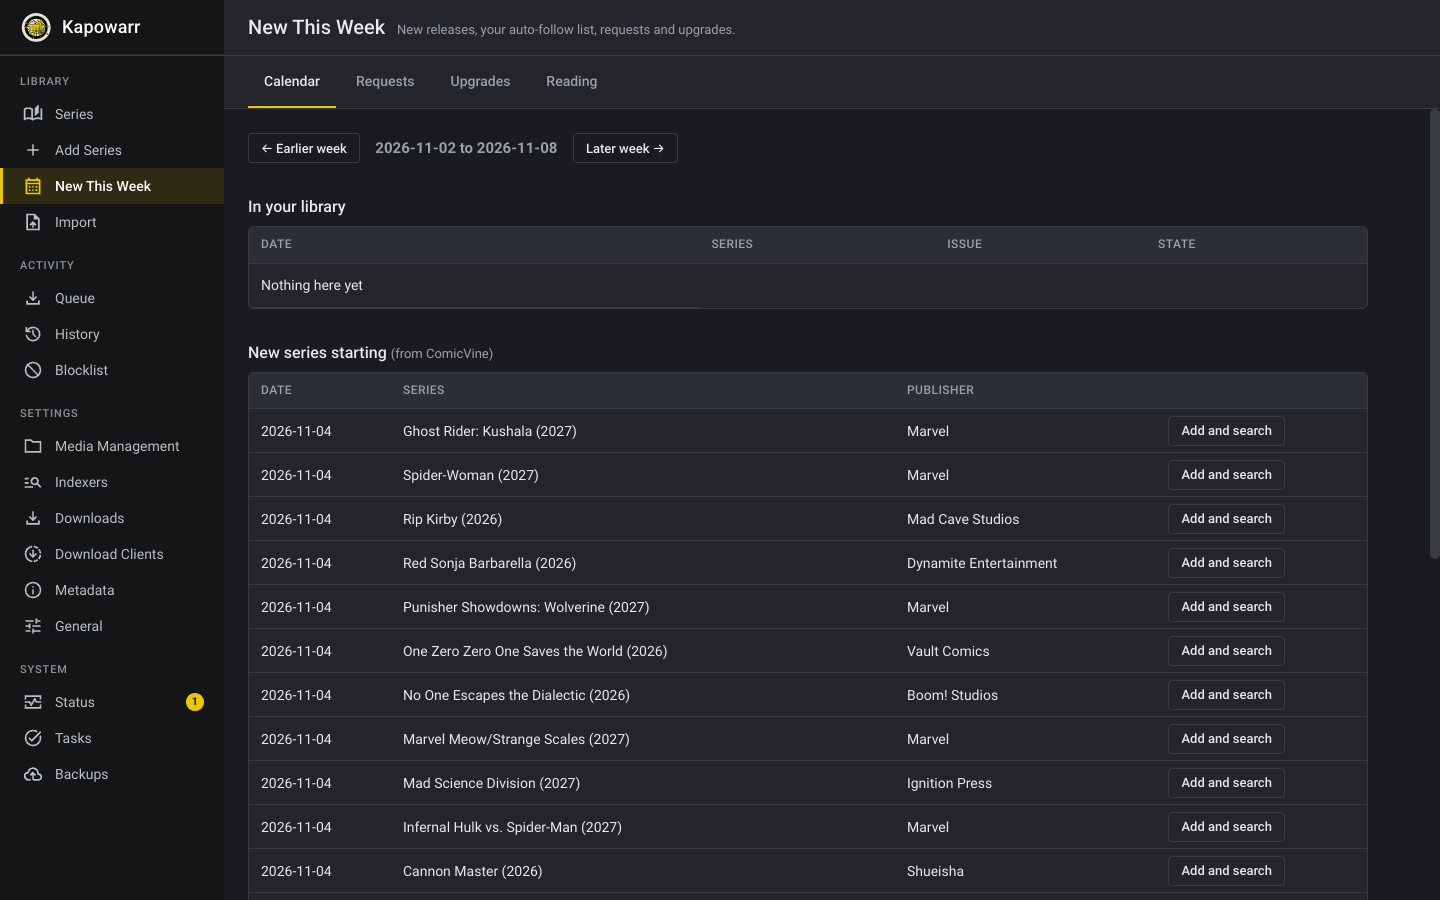
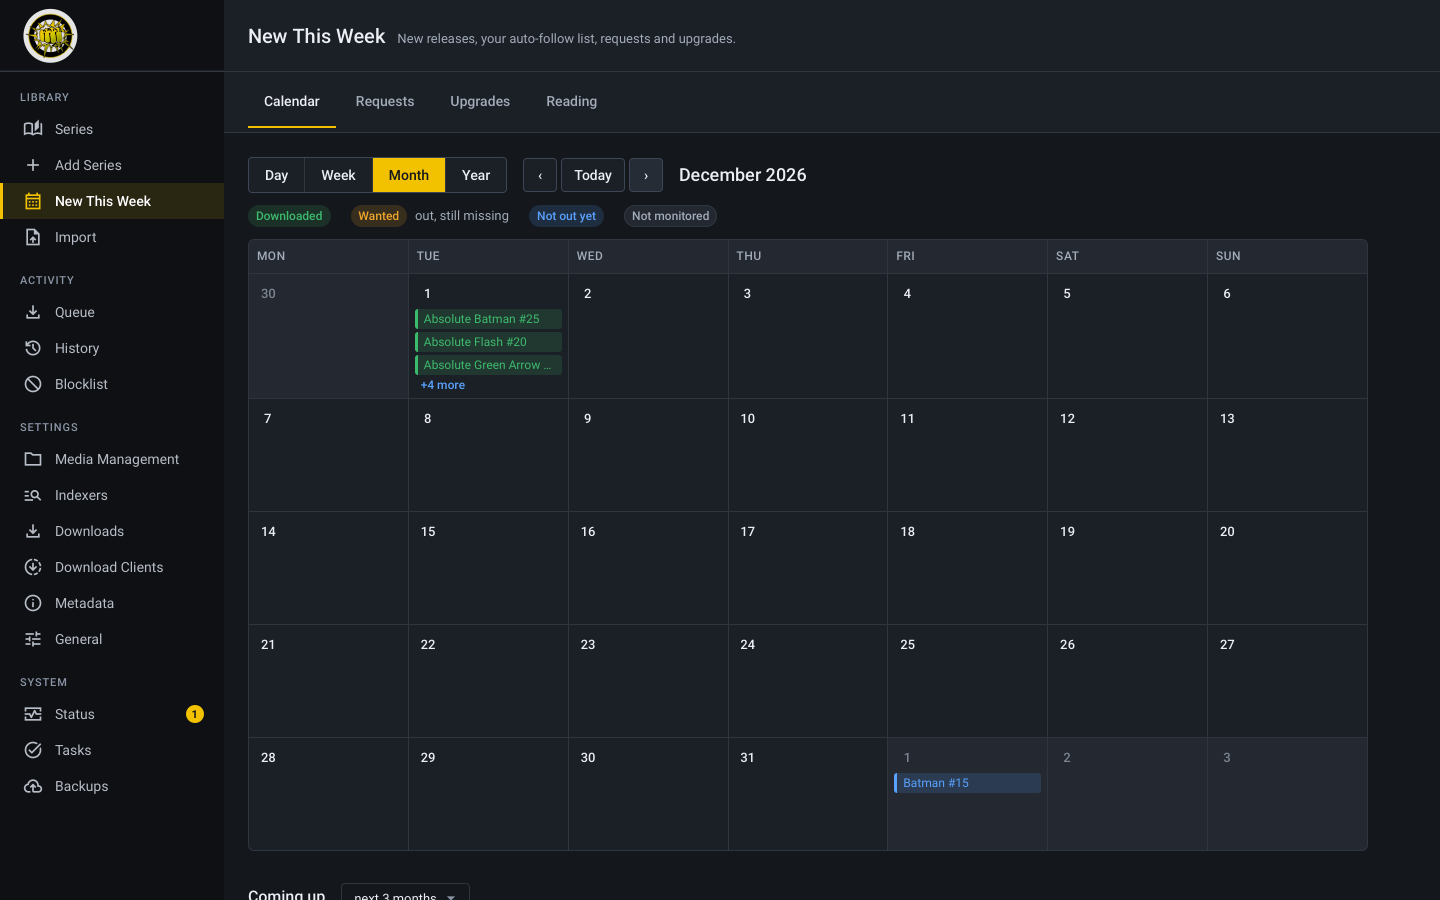
Docs: new Kapowarr calendar and screenshots, one manga folder, changelog

diff --git a/docs/Comics and manga.md b/docs/Comics and manga.md
@@ -43,7 +43,7 @@ Then open **Add Series**, search for a comic, and choose **Add to shelf**. Pick 
 
 Kapowarr has the familiar Sonarr and Radarr layout, made easier to read. Your shelf shows how complete every comic is.
 
-![Kapowarr's shelf: every comic with a progress bar and how many issues are missing](images/kapowarr-shelf.png)
+![Kapowarr's shelf: every comic with a progress bar and how many issues are missing](images/kapowarr-shelf.jpg)
 
 A series page opens with how many issues you have, how many are missing, and the issue list.
 
@@ -53,13 +53,15 @@ Adding a comic is a search box. Results come from ComicVine.
 
 ![Adding a comic in Kapowarr: search, filters and result cards](images/kapowarr-add.png)
 
-**New This Week** shows what is coming out and can add new series for you.
+**New This Week** is a calendar. Choose Day, Week, Month or Year to see when the next issue of each comic comes out, and what is coming in the next few months. It can also add new series for you.
 
-![New This Week in Kapowarr: the release calendar and new series](images/kapowarr-new-this-week.png)
+![New This Week in Kapowarr: the month calendar](images/kapowarr-new-this-week.png)
 
-On a phone, the menu is a bar at the bottom.
+![The year view: how many issues come out each month](images/kapowarr-calendar-year.png)
 
-<img src="images/kapowarr-phone.png" alt="Kapowarr on a phone" width="280">
+On a phone, the menu is a bar at the bottom. Both a light and a dark theme are built in (Settings, General).
+
+<img src="images/kapowarr-phone.jpg" alt="Kapowarr on a phone" width="280">
 
 The screenshots come from the fork's [interface guide](https://github.com/Hikki-dev/Kapowarr/blob/main/docs/Interface.md), which also shows the light theme.
 
@@ -75,7 +77,7 @@ Most manga are on several sites, and sites break. My copy handles that:
 * A site that is down is skipped instead of being asked tens of thousands of times.
 
 1. Open Kaizoku on port 9833 and add a manga source the first time.
-2. Search for a manga and add it. Chapters download into `books/manga`.
+2. Search for a manga and add it. Each series gets its own folder straight inside `books/manga`. There are no extra `Manga` or `Manhwa` folders in between, so you have one manga folder.
 3. Komga picks them up on its next scan.
 
 Already have part of a series on disk? Add it from the command line and let it choose the best site and the right place to continue: `extras/Kaizoku smart add`.

diff --git a/CHANGELOG.md b/CHANGELOG.md
@@ -1,5 +1,15 @@
 # Changes
 
+## Kapowarr: a better calendar, a steadier look
+
+1. **New This Week** is now a real calendar with **Day, Week, Month and Year** views, a **Coming up** list that shows the next issue of every series ("in 4 weeks"), and states in words (Downloaded, Wanted, Not out yet, Not monitored). It works from the dates your library already knows, and only asks ComicVine for new series when you press a button.
+2. One colour family for light and dark, so text, buttons and cards read well in both. The logo stands alone at the top of the menu.
+3. Checked in Safari as well as Chrome.
+
+## Manga: one folder
+
+1. Rensaiō now saves each series straight inside the manga folder (`CategorizedFolders` is off by default), so there is one manga folder instead of `Manga/Manga` and `Manga/Manhwa`.
+
 ## Kapowarr: a clearer interface
 
 1. Kapowarr has a new look in the style of Sonarr and Radarr, made easier to read for beginners and quicker for daily use. A sidebar with sections, a title and a plain sentence on every page, one icon set, one typeface, and the same spacing everywhere.
